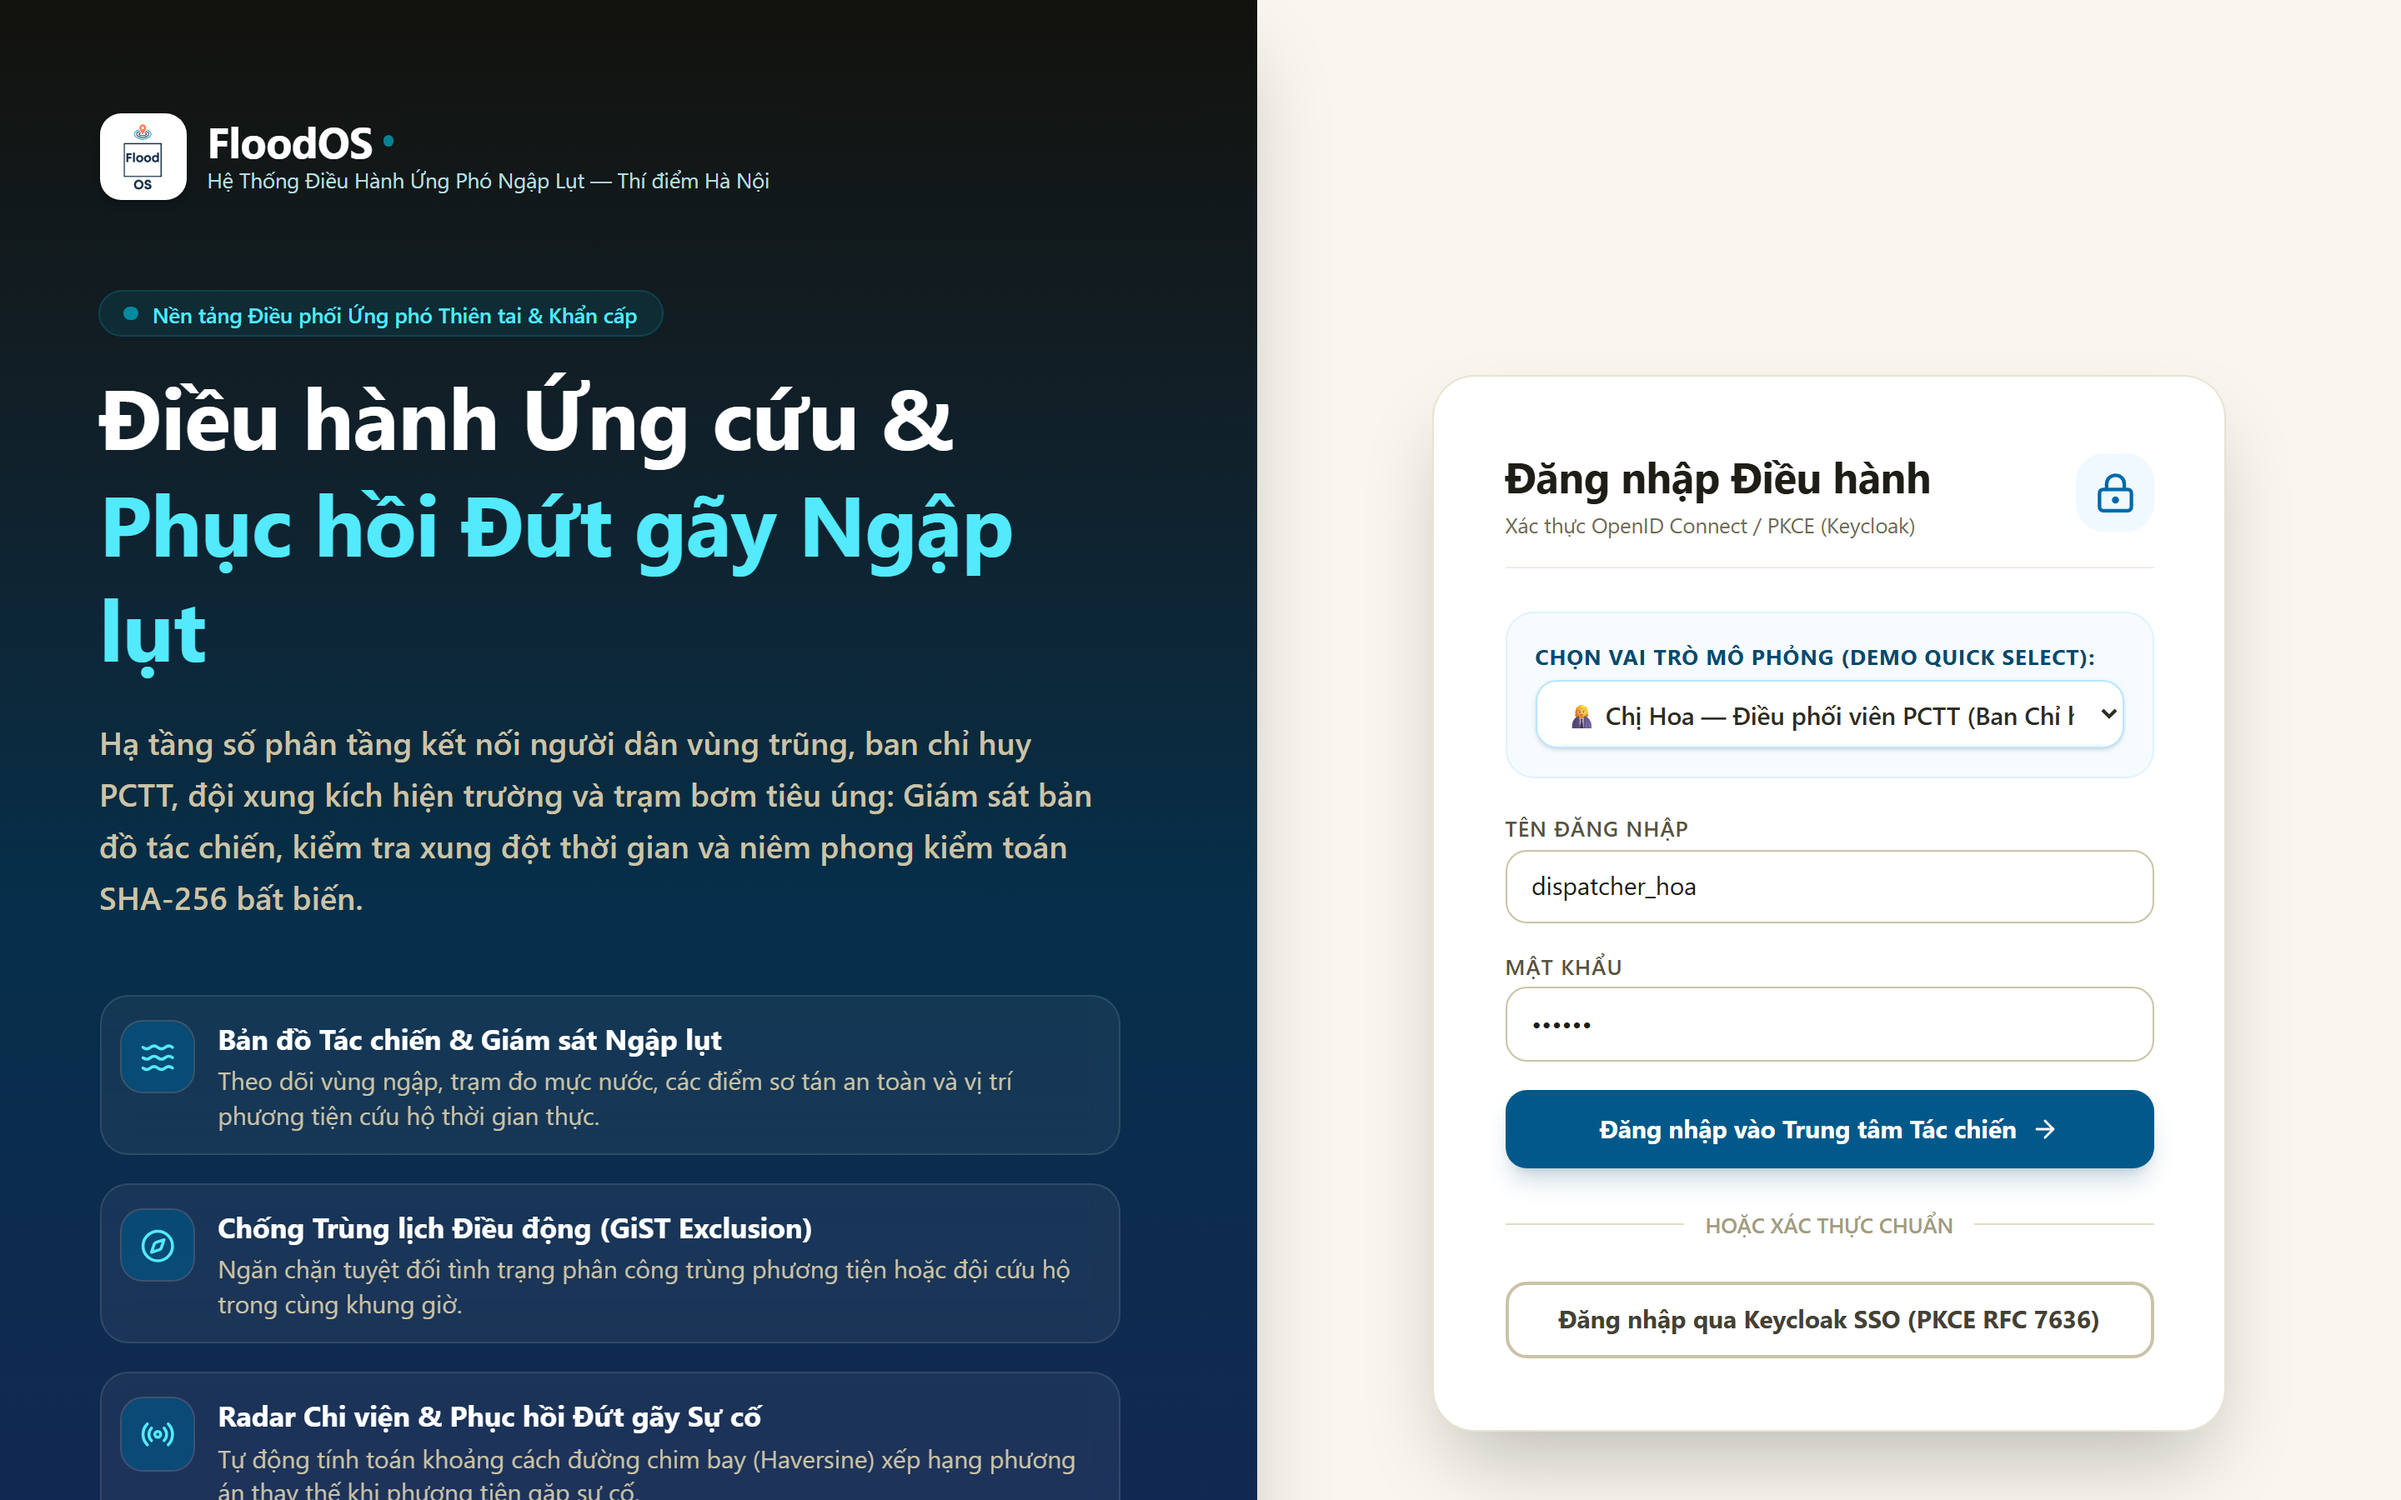
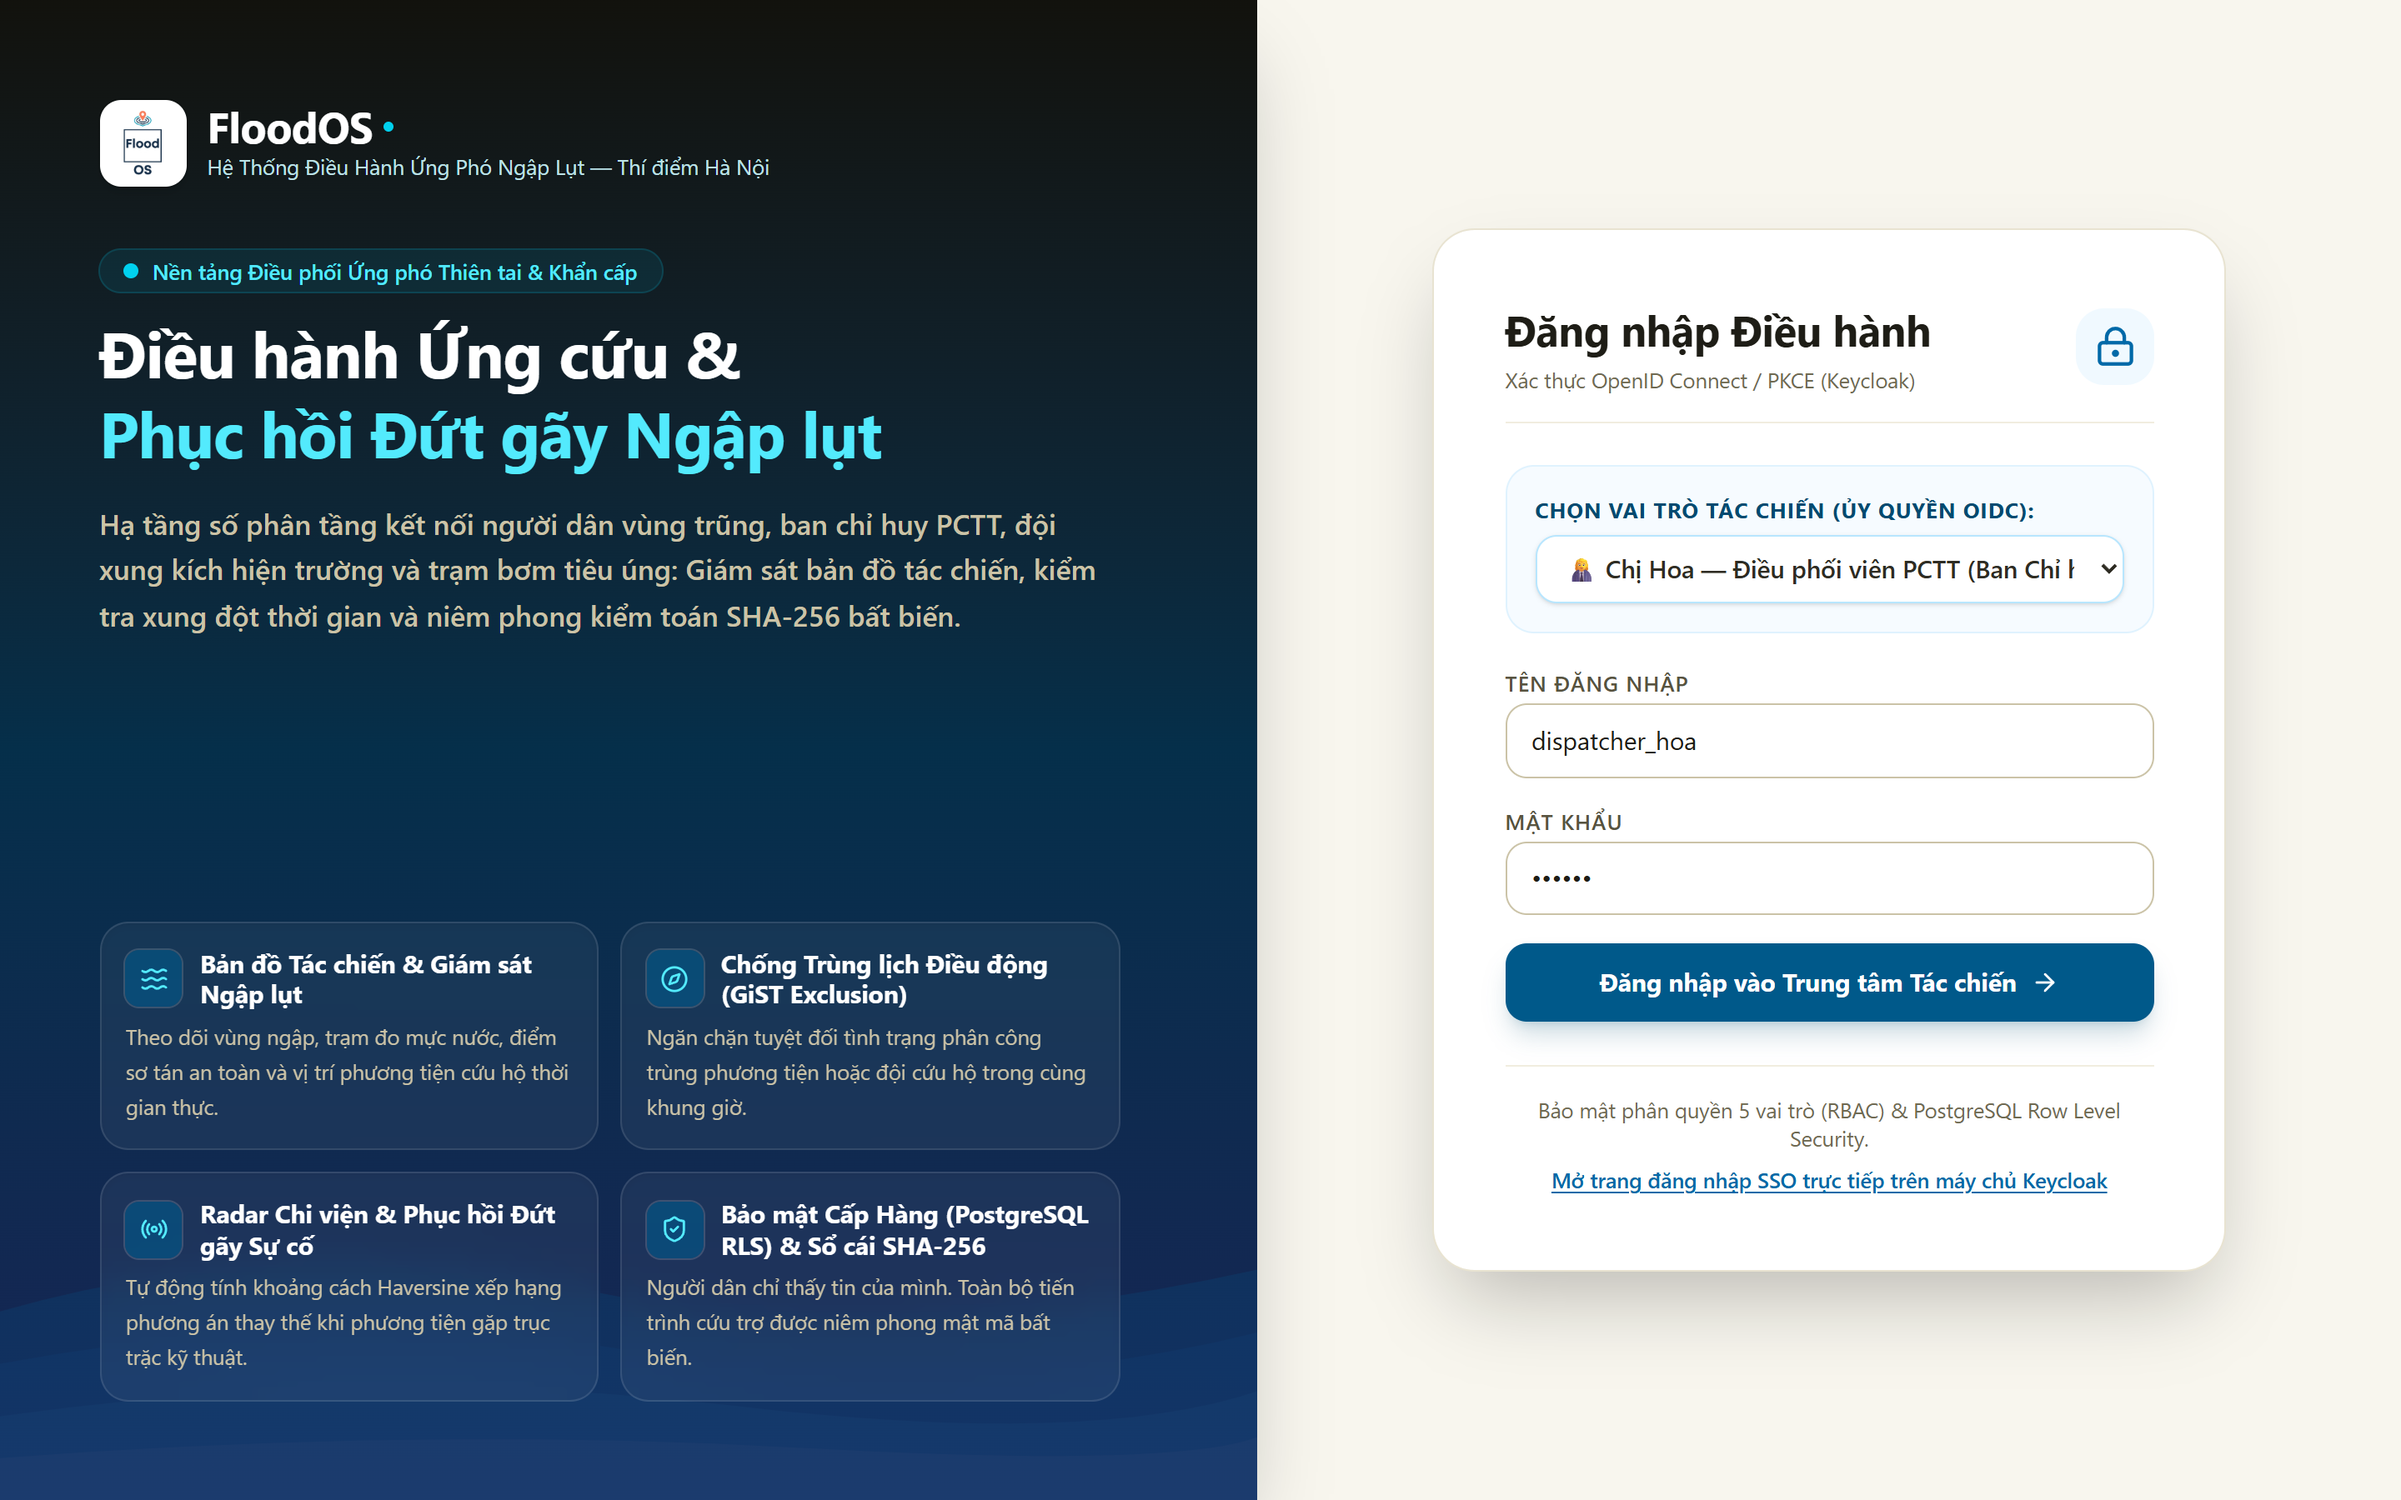
fix(ui): sua loi hinh nen song de chu va hop nhat duy nhat 1 luong dang nhap dieu hanh

diff --git a/apps/web/src/components/auth/LoginPage.tsx b/apps/web/src/components/auth/LoginPage.tsx
@@ -2,7 +2,7 @@
 // Copyright 2026 FloodOS Contributors
 
 import React, { useState } from 'react';
-import { AlertCircle, ArrowRight, LockKeyhole, Waves, ShieldCheck, MapPin, Radio, Compass } from 'lucide-react';
+import { AlertCircle, ArrowRight, LockKeyhole, Waves, ShieldCheck, Radio, Compass } from 'lucide-react';
 import { useAuth } from '../../context/useAuth';
 import { DEMO_PASSWORD } from '../../demo/demoScript';
 import { FloodOsLogo } from '../common/FloodOsLogo';
@@ -11,7 +11,7 @@ const FEATURES = [
   {
     icon: Waves,
     title: 'Bản đồ Tác chiến & Giám sát Ngập lụt',
-    text: 'Theo dõi vùng ngập, trạm đo mực nước, các điểm sơ tán an toàn và vị trí phương tiện cứu hộ thời gian thực.',
+    text: 'Theo dõi vùng ngập, trạm đo mực nước, điểm sơ tán an toàn và vị trí phương tiện cứu hộ thời gian thực.',
   },
   {
     icon: Compass,
@@ -21,7 +21,7 @@ const FEATURES = [
   {
     icon: Radio,
     title: 'Radar Chi viện & Phục hồi Đứt gãy Sự cố',
-    text: 'Tự động tính toán khoảng cách đường chim bay (Haversine) xếp hạng phương án thay thế khi phương tiện gặp sự cố.',
+    text: 'Tự động tính khoảng cách Haversine xếp hạng phương án thay thế khi phương tiện gặp trục trặc kỹ thuật.',
   },
   {
     icon: ShieldCheck,
@@ -34,12 +34,12 @@ const WaterBackgroundScene: React.FC = () => (
   <svg
     viewBox="0 0 600 220"
     preserveAspectRatio="xMidYMax slice"
-    className="pointer-events-none absolute inset-x-0 bottom-0 h-56 w-full"
+    className="pointer-events-none absolute inset-x-0 bottom-0 h-40 w-full z-0 opacity-15 overflow-hidden"
     aria-hidden="true"
   >
-    <path d="M0 130 Q140 90 280 120 T600 110 V220 H0Z" fill="#0369a1" opacity="0.3" />
-    <path d="M0 155 Q160 125 310 150 T600 140 V220 H0Z" fill="#0284c7" opacity="0.5" />
-    <path d="M0 180 Q180 155 350 175 T600 168 V220 H0Z" fill="#0ea5e9" opacity="0.7" />
+    <path d="M0 130 Q140 90 280 120 T600 110 V220 H0Z" fill="#0369a1" />
+    <path d="M0 155 Q160 125 310 150 T600 140 V220 H0Z" fill="#0284c7" />
+    <path d="M0 180 Q180 155 350 175 T600 168 V220 H0Z" fill="#0ea5e9" />
     <path d="M0 200 Q200 185 380 195 T600 190 V220 H0Z" fill="#38bdf8" />
   </svg>
 );
@@ -88,47 +88,52 @@ export const LoginPage: React.FC = () => {
   return (
     <main className="grid min-h-screen lg:grid-cols-[1.1fr_1fr] bg-slate-50">
       {/* Hero Left Column */}
-      <section className="relative overflow-hidden bg-gradient-to-b from-slate-950 via-sky-950 to-blue-950 px-8 pb-48 pt-12 text-slate-100 sm:px-14 lg:pb-12 lg:pt-16 shadow-2xl">
-        <FloodOsLogo
-          size={52}
-          showText
-          textVariant="white"
-          subtitle="Hệ Thống Điều Hành Ứng Phó Ngập Lụt — Thí điểm Hà Nội"
-        />
+      <section className="relative overflow-hidden bg-gradient-to-b from-slate-950 via-sky-950 to-blue-950 px-8 py-10 text-slate-100 sm:px-14 lg:py-14 shadow-2xl flex flex-col justify-between">
+        <div className="relative z-10">
+          <FloodOsLogo
+            size={52}
+            showText
+            textVariant="white"
+            subtitle="Hệ Thống Điều Hành Ứng Phó Ngập Lụt — Thí điểm Hà Nội"
+          />
 
-        <div className="mt-12 max-w-xl">
-          <div className="inline-flex items-center gap-2 rounded-full bg-cyan-500/10 px-3.5 py-1 text-xs font-semibold text-cyan-300 ring-1 ring-cyan-500/25 mb-4">
-            <span className="h-2 w-2 rounded-full bg-cyan-400 animate-pulse" />
-            Nền tảng Điều phối Ứng phó Thiên tai & Khẩn cấp
+          <div className="mt-8 max-w-xl">
+            <div className="inline-flex items-center gap-2 rounded-full bg-cyan-500/10 px-3.5 py-1 text-xs font-semibold text-cyan-300 ring-1 ring-cyan-500/25 mb-3">
+              <span className="h-2 w-2 rounded-full bg-cyan-400 animate-pulse" />
+              Nền tảng Điều phối Ứng phó Thiên tai & Khẩn cấp
+            </div>
+            <h1 className="text-3xl font-extrabold leading-tight text-white sm:text-4xl">
+              Điều hành Ứng cứu &<br />
+              <span className="text-cyan-300">Phục hồi Đứt gãy Ngập lụt</span>
+            </h1>
+            <p className="mt-4 text-base leading-relaxed text-slate-300 font-medium">
+              Hạ tầng số phân tầng kết nối người dân vùng trũng, ban chỉ huy PCTT, đội xung kích hiện trường và trạm bơm tiêu úng:
+              Giám sát bản đồ tác chiến, kiểm tra xung đột thời gian và niêm phong kiểm toán SHA-256 bất biến.
+            </p>
           </div>
-          <h1 className="text-4xl font-extrabold leading-tight text-white sm:text-5xl">
-            Điều hành Ứng cứu &<br />
-            <span className="text-cyan-300">Phục hồi Đứt gãy Ngập lụt</span>
-          </h1>
-          <p className="mt-5 text-lg leading-relaxed text-slate-300 font-medium">
-            Hạ tầng số phân tầng kết nối người dân vùng trũng, ban chỉ huy PCTT, đội xung kích hiện trường và trạm bơm tiêu úng:
-            Giám sát bản đồ tác chiến, kiểm tra xung đột thời gian và niêm phong kiểm toán SHA-256 bất biến.
-          </p>
         </div>
 
-        <ul className="mt-10 grid max-w-xl gap-4">
-          {FEATURES.map(({ icon: Icon, title, text }) => (
-            <li key={title} className="flex gap-3.5 p-3 rounded-2xl bg-white/5 border border-white/10 backdrop-blur-sm">
-              <span className="mt-0.5 grid h-10 w-10 shrink-0 place-items-center rounded-xl bg-sky-800/60 text-cyan-300 ring-1 ring-white/15">
-                <Icon aria-hidden="true" className="h-5 w-5" />
-              </span>
-              <span>
-                <span className="block text-base font-bold text-white">{title}</span>
-                <span className="block text-sm leading-snug text-slate-300 mt-0.5">{text}</span>
-              </span>
-            </li>
-          ))}
-        </ul>
+        {/* Feature Cards in 2x2 grid strictly above background */}
+        <div className="relative z-10 mt-8">
+          <ul className="grid grid-cols-1 sm:grid-cols-2 gap-3 max-w-xl">
+            {FEATURES.map(({ icon: Icon, title, text }) => (
+              <li key={title} className="flex flex-col gap-1.5 p-3.5 rounded-2xl bg-white/5 border border-white/10 backdrop-blur-md shadow-inner">
+                <div className="flex items-center gap-2.5">
+                  <span className="grid h-8 w-8 shrink-0 place-items-center rounded-lg bg-sky-800/60 text-cyan-300 ring-1 ring-white/15">
+                    <Icon aria-hidden="true" className="h-4 w-4" />
+                  </span>
+                  <span className="text-sm font-bold text-white leading-tight">{title}</span>
+                </div>
+                <p className="text-xs leading-relaxed text-slate-300">{text}</p>
+              </li>
+            ))}
+          </ul>
+        </div>
 
         <WaterBackgroundScene />
       </section>
 
-      {/* Login Right Column */}
+      {/* Login Right Column - Single Unified Login */}
       <section className="flex flex-col items-center justify-center p-6 sm:p-12 lg:p-16">
         <div className="w-full max-w-md rounded-3xl bg-white p-8 sm:p-10 shadow-2xl border border-slate-200/80">
           <div className="flex items-center justify-between pb-4 border-b border-slate-100">
@@ -144,14 +149,17 @@ export const LoginPage: React.FC = () => {
           {shownError && (
             <div role="alert" className="mt-5 flex items-start gap-2.5 rounded-2xl bg-red-50 p-3.5 text-sm text-red-800 border border-red-200">
               <AlertCircle className="h-5 w-5 shrink-0 text-red-600 mt-0.5" />
-              <div className="flex-1">{shownError}</div>
+              <div className="flex-1">
+                <span className="font-semibold block">Lỗi kết nối máy chủ điều phối:</span>
+                <span className="text-xs text-red-700 block mt-0.5">{shownError}</span>
+              </div>
             </div>
           )}
 
           {/* Quick Persona Delegation for Testing */}
           <div className="mt-6 rounded-2xl bg-sky-50/60 border border-sky-100 p-4">
             <label htmlFor="delegation-select" className="block text-xs font-bold uppercase tracking-wider text-sky-900 mb-1.5">
-              Chọn vai trò mô phỏng (Demo Quick Select):
+              Chọn vai trò tác chiến (Ủy quyền OIDC):
             </label>
             <select
               id="delegation-select"
@@ -170,6 +178,7 @@ export const LoginPage: React.FC = () => {
             </select>
           </div>
 
+          {/* Single Unified Login Form */}
           <form onSubmit={handleCredentialLogin} className="mt-5 space-y-4">
             <div>
               <label className="block text-xs font-semibold uppercase tracking-wider text-slate-600 mb-1" htmlFor="username">
@@ -206,28 +215,24 @@ export const LoginPage: React.FC = () => {
               disabled={isLoading}
               className="w-full flex items-center justify-center gap-2 rounded-xl bg-sky-800 px-4 py-3 text-sm font-bold text-white shadow-lg shadow-sky-900/20 hover:bg-sky-700 transition disabled:opacity-50"
             >
-              <span>{isLoading ? 'Đang xác thực…' : 'Đăng nhập vào Trung tâm Tác chiến'}</span>
+              <span>{isLoading ? 'Đang xác thực PKCE…' : 'Đăng nhập vào Trung tâm Tác chiến'}</span>
               <ArrowRight className="h-4 w-4" />
             </button>
           </form>
 
-          <div className="relative my-6">
-            <div className="absolute inset-0 flex items-center">
-              <div className="w-full border-t border-slate-200" />
-            </div>
-            <div className="relative flex justify-center text-xs uppercase">
-              <span className="bg-white px-3 text-slate-400 font-semibold">hoặc xác thực chuẩn</span>
-            </div>
+          <div className="mt-6 pt-4 border-t border-slate-100 text-center">
+            <p className="text-xs text-slate-500">
+              Bảo mật phân quyền 5 vai trò (RBAC) & PostgreSQL Row Level Security.
+            </p>
+            <button
+              type="button"
+              onClick={startKeycloak}
+              disabled={isLoading}
+              className="mt-2 text-xs text-sky-700 hover:text-sky-900 font-medium underline underline-offset-2 transition"
+            >
+              Mở trang đăng nhập SSO trực tiếp trên máy chủ Keycloak
+            </button>
           </div>
-
-          <button
-            type="button"
-            onClick={startKeycloak}
-            disabled={isLoading}
-            className="w-full flex items-center justify-center gap-2 rounded-xl border-2 border-slate-300 bg-white px-4 py-2.5 text-sm font-bold text-slate-700 hover:bg-slate-50 hover:border-slate-400 transition"
-          >
-            <span>Đăng nhập qua Keycloak SSO (PKCE RFC 7636)</span>
-          </button>
         </div>
       </section>
     </main>
